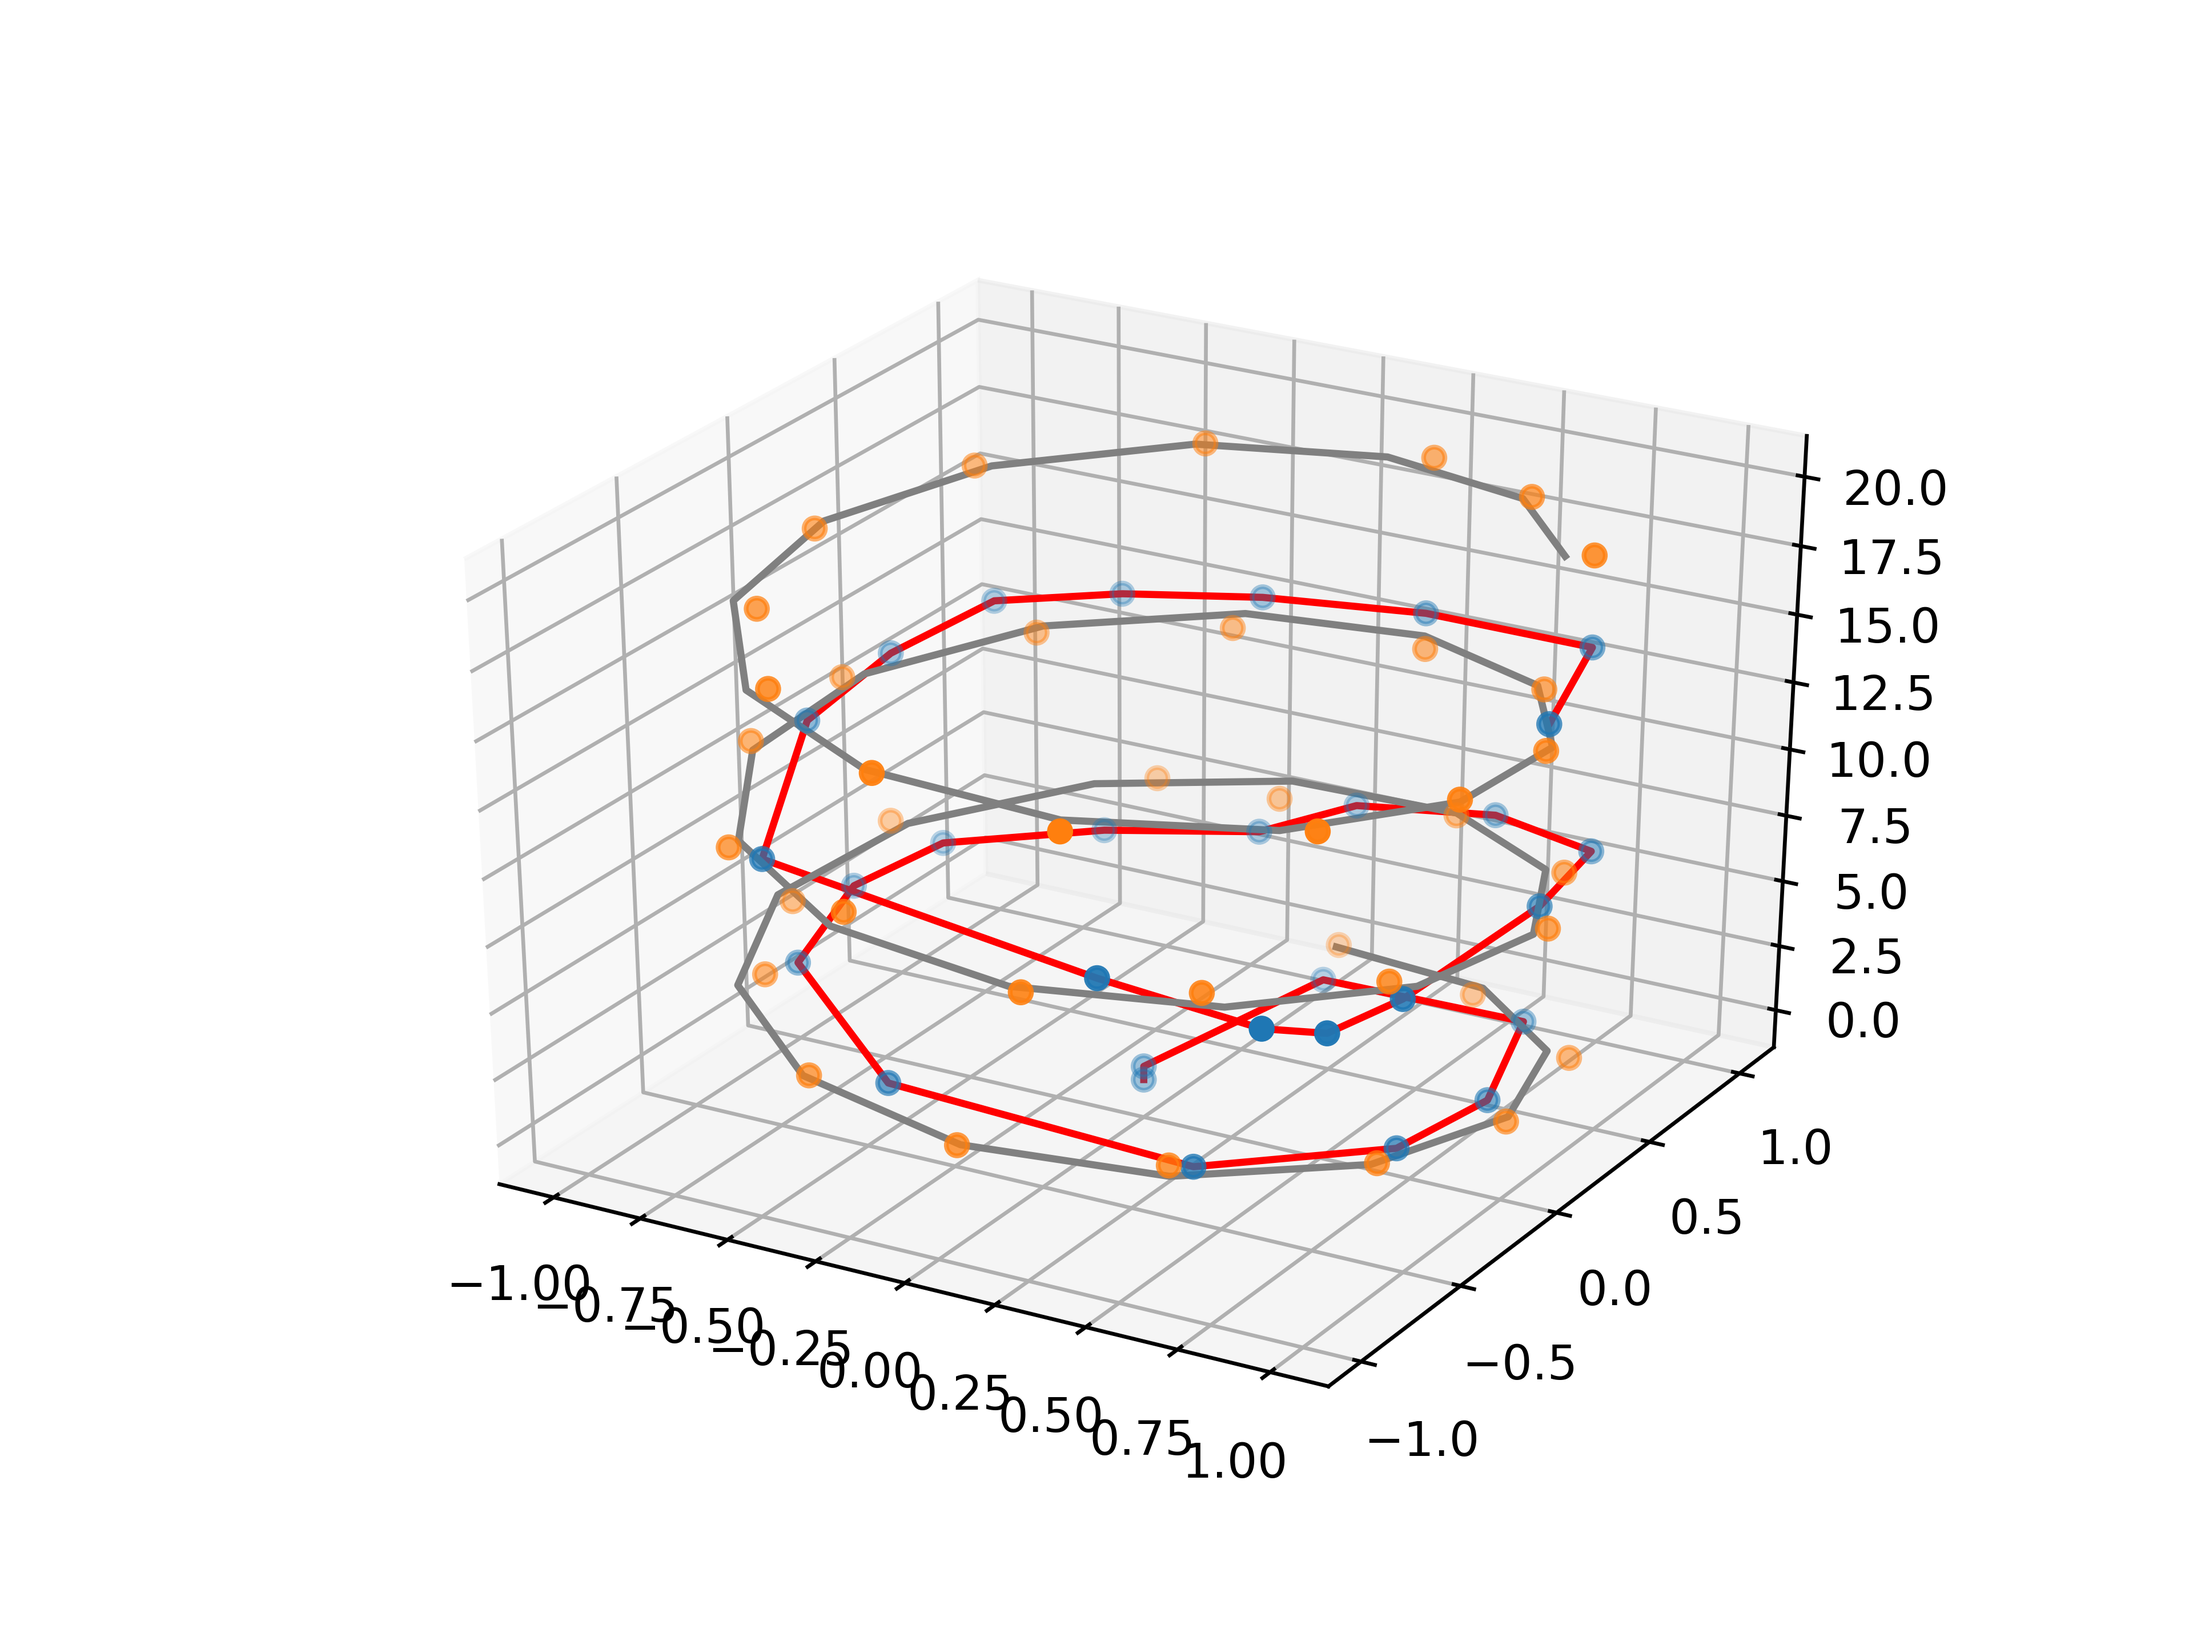
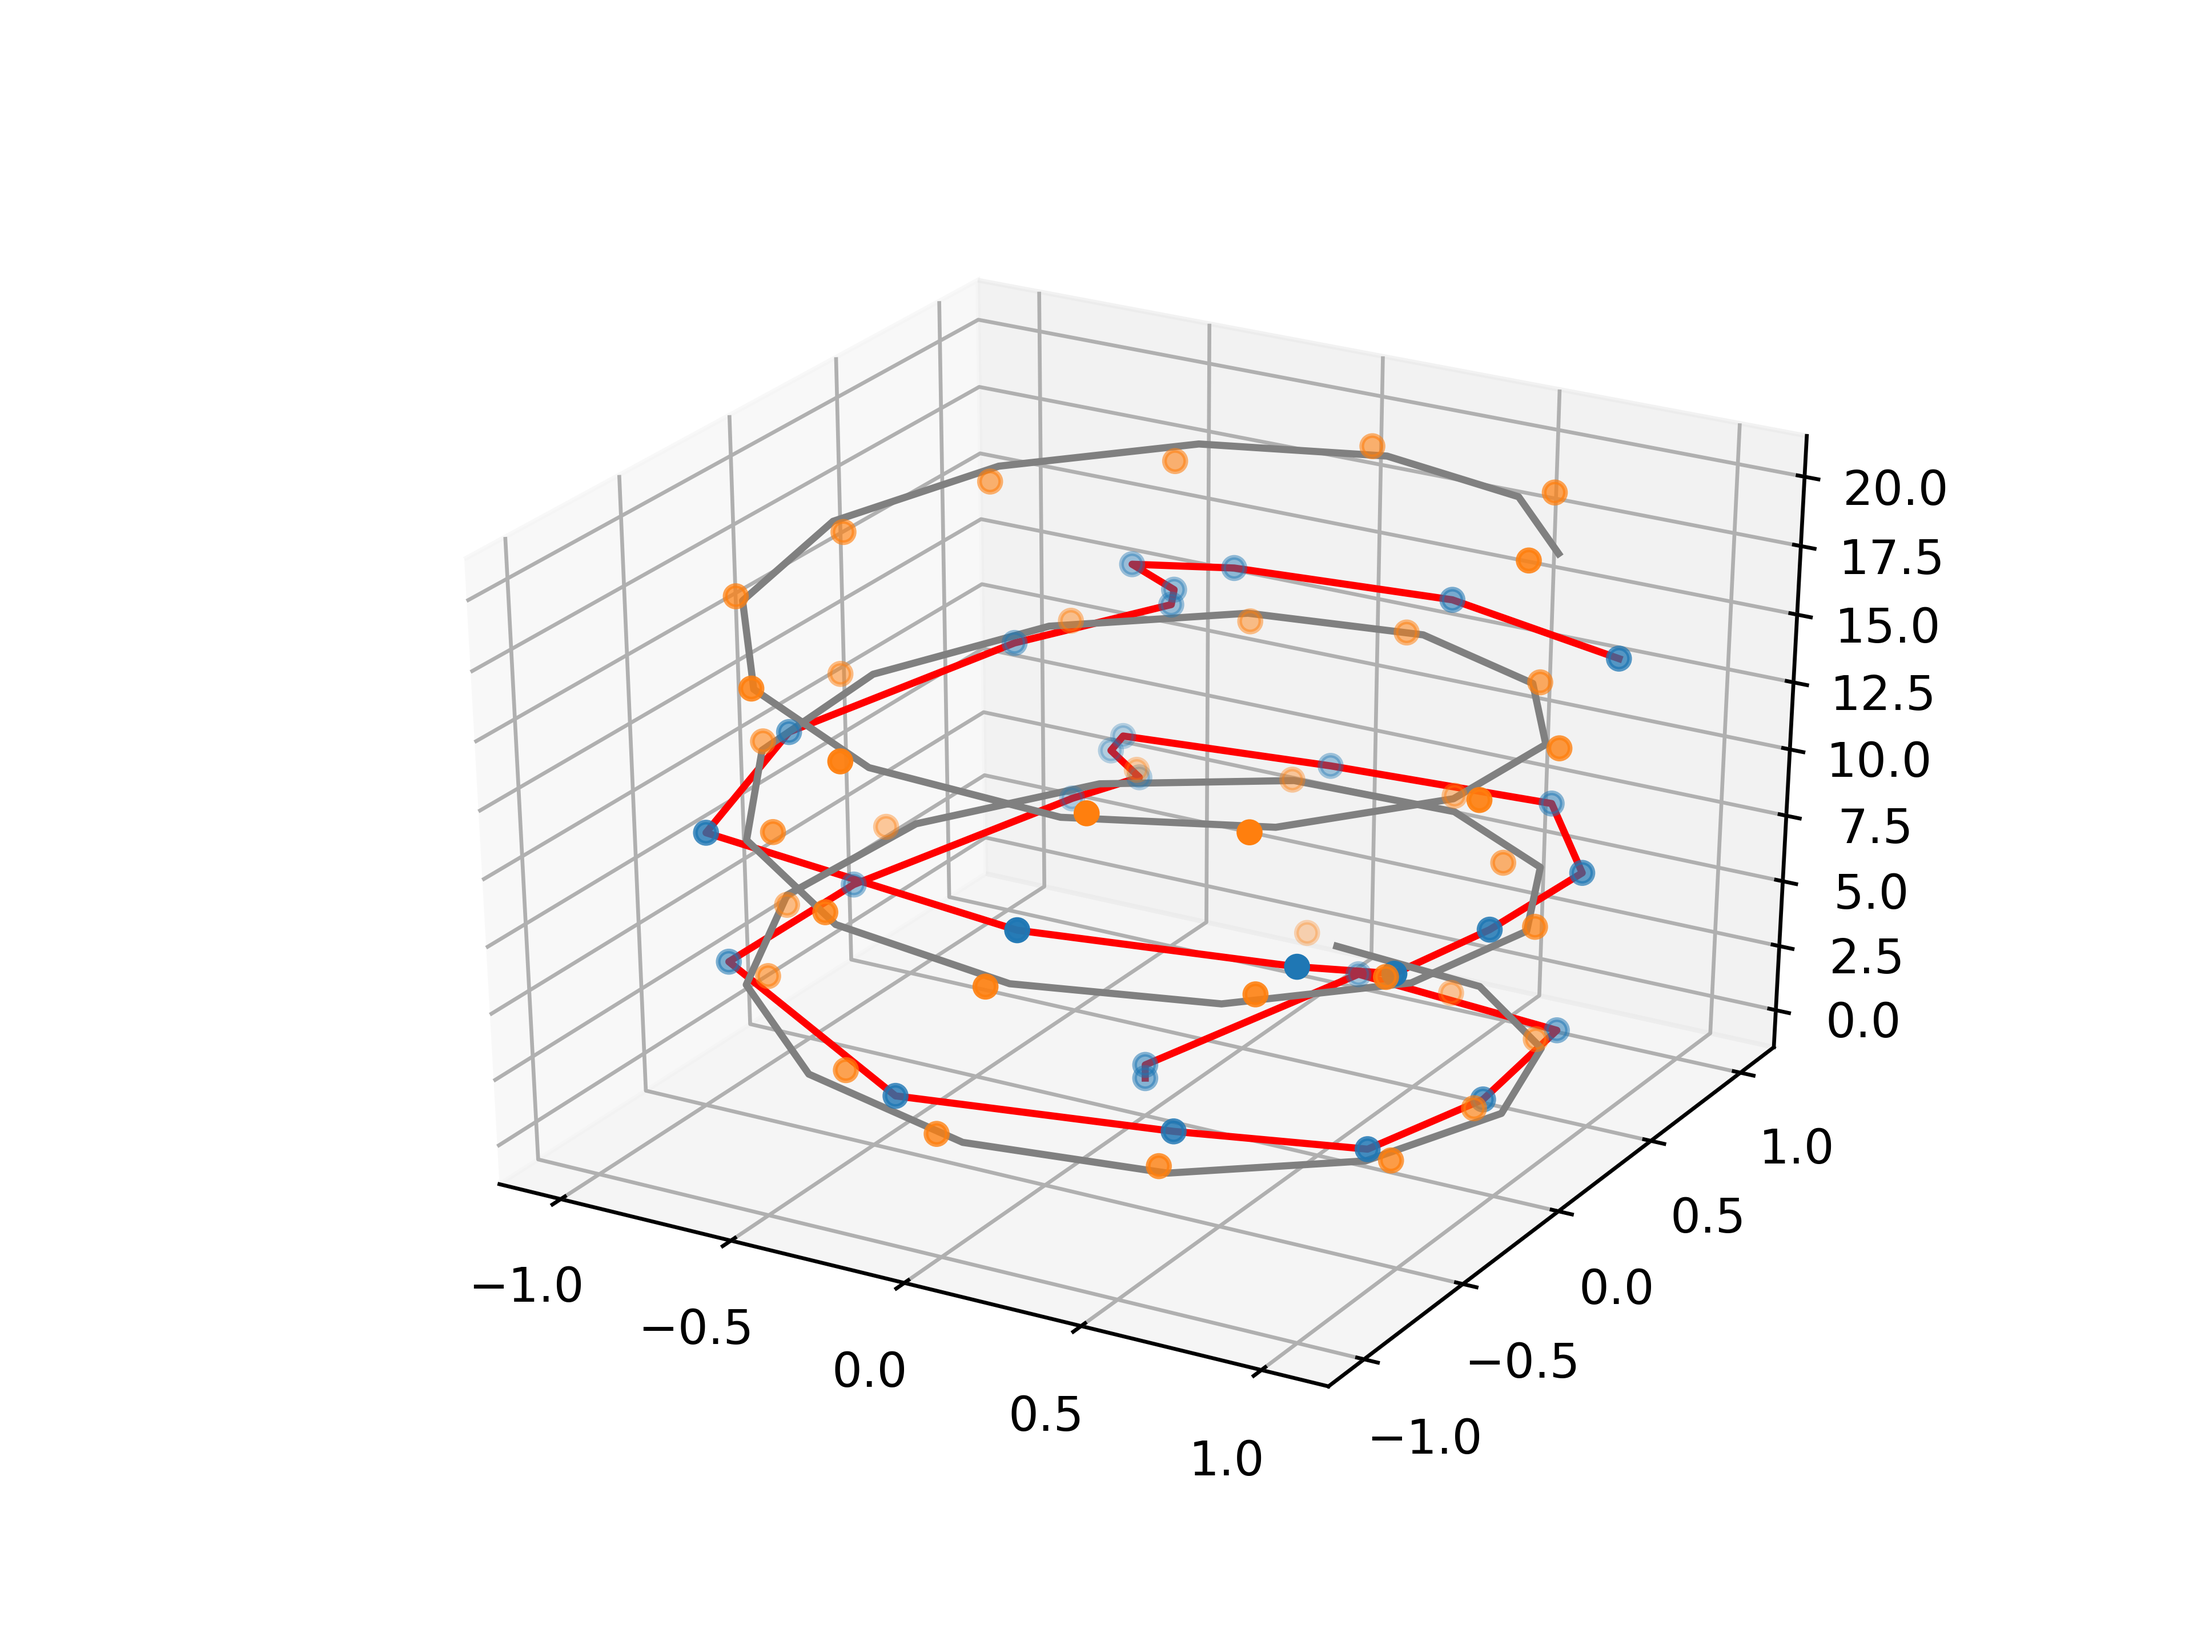
Fixed GRU_Cell Crossbar Matrix Transposition Bug

diff --git a/networks/ode_rnn.py b/networks/ode_rnn.py
@@ -9,6 +9,7 @@ import matplotlib.pyplot as plt
 from torchdiffeq import odeint
 
 from utils.linear import Linear
+from utils.rnn_cell import GRU_Cell
 from crossbar.crossbar import crossbar
 
 class ODE_Func(nn.Module):
@@ -50,7 +51,7 @@ class ODE_RNN(nn.Module):
         self.linear_hidden = Linear(hidden_layer_size, hidden_layer_size, self.cb)
         self.decoder = Linear(hidden_layer_size, output_size, self.cb)
 
-        self.rnn_cell = nn.GRUCell(input_size, hidden_layer_size, bias=False)
+        self.rnn_cell = GRU_Cell(input_size, hidden_layer_size, self.cb)
 
         self.ode_func = ODE_Func(hidden_layer_size, self.cb)
         self.nonlinear = nn.Tanh()
@@ -75,7 +76,9 @@ class ODE_RNN(nn.Module):
             out = self.nonlinear(out)
             output[0] = out.reshape(-1)
 
-            h_i = self.rnn_cell(x[0].transpose(0, 1), h_ip.transpose(0, 1))
+            h_i = self.rnn_cell(x[0], h_ip)
+            # h_i = self.rnn_cell(x[0].transpose(0, 1), h_ip.transpose(0, 1))
+            print("h_i: ", h_i.size())
             h_i = torch.transpose(h_i, 0, 1)
 
         # RNN iteration
@@ -89,8 +92,10 @@ class ODE_RNN(nn.Module):
             out = self.nonlinear(out)
             output[i] = out.reshape(-1)
 
-            h_i = self.rnn_cell(x_i.transpose(0, 1), h_ip.transpose(0, 1))
+            h_i = self.rnn_cell(x_i, h_ip)
+            # h_i = self.rnn_cell(x_i.transpose(0, 1), h_ip.transpose(0, 1))
             h_i = torch.transpose(h_i, 0, 1)
+            print("h_i: ", h_i.size())
 
         return output
 

diff --git a/utils/rnn_cell.py b/utils/rnn_cell.py
@@ -24,14 +24,14 @@ class GRU_Cell(nn.Module):
         gate_x = self.i2h(x).squeeze()
         gate_h = self.h2h(h).squeeze()
 
-        i_r,i_u,i_n = gate_x.chunk(3, 1)
-        h_r,h_u,h_n = gate_h.chunk(3, 1)
+        i_r, i_u ,i_n = gate_x.chunk(3)
+        h_r, h_u, h_n = gate_h.chunk(3)
         
         gate_reset = torch.sigmoid(i_r + h_r)
         gate_update = torch.sigmoid(i_u + h_u)
-        gate_nstate = torch.tanh(i_n + (gate_reset*h_n))
+        gate_nstate = torch.tanh(i_n + (gate_reset * h_n))
 
-        return gate_update * h + (1 - gate_update) * gate_nstate
+        return gate_update * h.transpose(0, 1) + (1 - gate_update) * gate_nstate
 
     def remap(self):
         self.i2h.remap()
